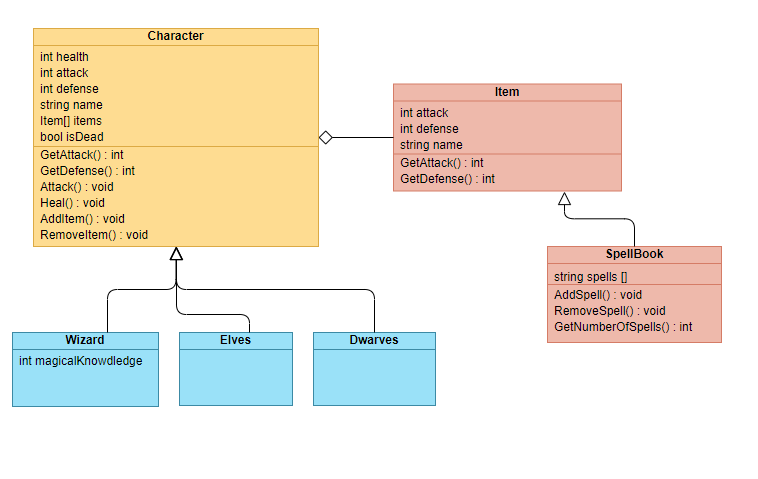
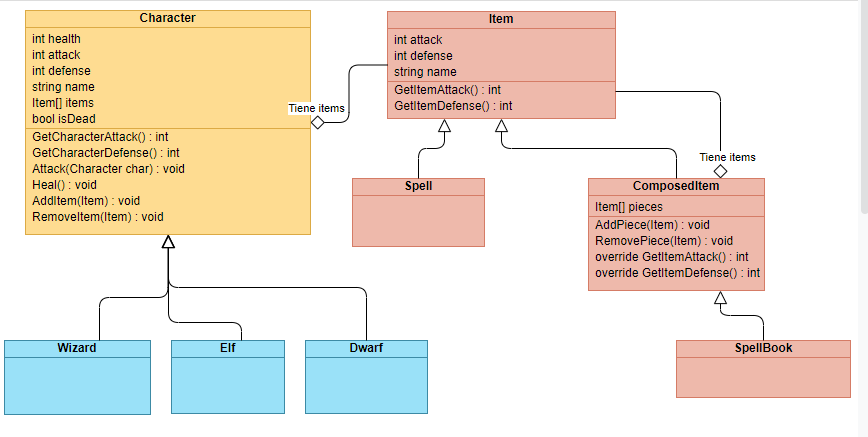
agrego el modelo y el nuevo diagrama de clases

diff --git a/src/Library/Character.cs b/src/Library/Character.cs
@@ -1,0 +1,113 @@
+using System;
+using System.Collections.Generic;
+
+namespace RolGame
+{
+    public class Character
+    {
+        private int initialHealth;
+        private int health;
+        private int attack;
+        private int defense;
+        private string name;
+        private List<Item> items;
+        private bool isDead;
+
+        public int Health 
+        {
+            get
+            {
+                return this.health;
+            }
+        }
+
+
+        public Character(int health, string name)
+        {
+            if(health > 0)
+            {
+                this.health = health;
+                this.initialHealth = health;
+            }
+            else
+            {
+                throw new Exception("Invalid health");
+            }
+
+            if(!string.IsNullOrEmpty(name))
+            {
+                this.name = name;
+            }
+            else
+            {
+                throw new Exception("Invalid name");
+            }
+
+            this.items = new List<Item>();
+            this.isDead = false;
+        }
+
+
+        public int GetCharacterAttack()
+        {
+            int result = 0;
+            foreach (Item item in this.items)
+            {
+                result = result + item.GetItemAttack();
+            }
+            return result;
+        }
+
+        public int GetCharacterDefense()
+        {
+            int result = 0;
+            foreach (Item item in this.items)
+            {
+                result = result + item.GetItemDefense();
+            }
+            return result;
+        }
+
+        public void AddItem(Item item)
+        {
+            this.items.Add(item);
+            this.UpdateCharacterStats();
+        }
+        public void RemoveItem(Item item)
+        {
+            if(this.items.Contains(item))
+            {
+                this.items.Remove(item);
+                this.UpdateCharacterStats();
+            }
+        }
+
+        public void Heal()
+        {
+            this.health = initialHealth;
+            this.isDead = false;
+        }
+
+        public void Attack(Character enemy)
+        {
+            if(enemy.isDead != true)
+            {
+                if((enemy.GetCharacterDefense() + enemy.Health) - this.GetCharacterAttack() > 0)
+                {
+                    enemy.health = (enemy.Health + enemy.GetCharacterDefense()) - this.GetCharacterAttack();
+                }
+                else
+                {
+                    enemy.health = 0;
+                    enemy.isDead = true;
+                }
+            }     
+        }
+
+         private void UpdateCharacterStats()
+        {
+            this.attack = this.GetCharacterAttack();
+            this.defense = this.GetCharacterDefense();
+        }
+    }
+}

diff --git a/src/Library/ComposedItem.cs b/src/Library/ComposedItem.cs
@@ -1,0 +1,57 @@
+using System;
+using System.Collections.Generic;
+
+namespace RolGame
+{
+    public class ComposedItem : Item
+    {
+        private List<Item> pieces;
+        private int itemAttack;
+        private int itemDefense;
+
+        public ComposedItem(string name, int attack, int defense) : base(name, attack = 0, defense = 0)
+        {
+            this.pieces = new List<Item>();
+        }
+
+        public override int GetItemAttack()
+        {
+            int result = 0;
+            foreach (Item piece in pieces)
+            {
+                result = result + piece.GetItemAttack();
+            }
+            return result;
+        }
+
+        public override int GetItemDefense()
+        {
+            int result = 0;
+            foreach (Item piece in pieces)
+            {
+                result = result + piece.GetItemDefense();
+            }
+            return result;
+        }
+
+        public void AddPiece(Item piece)
+        {
+            this.pieces.Add(piece);
+            this.UpdateComposedItemStats(piece);
+        }
+        public void RemovePiece(Item piece)
+        {
+            if(this.pieces.Contains(piece))
+            {
+                this.pieces.Remove(piece);
+                this.UpdateComposedItemStats(piece);
+            }
+        }
+
+        private void UpdateComposedItemStats(Item piece)
+        {
+            this.itemAttack = this.GetItemAttack() + piece.GetItemAttack();
+            this.itemDefense = this.GetItemDefense();
+        }
+    }
+}

diff --git a/src/Library/Item.cs b/src/Library/Item.cs
@@ -1,0 +1,53 @@
+using System;
+
+namespace RolGame
+{
+    public class Item
+    {
+        private int itemAttack;
+        private int itemDefense;
+        private string name;
+
+        public Item(string name, int attack, int defense)
+        {
+          
+            if(!string.IsNullOrEmpty(name))
+            {
+                this.name = name;
+            }
+            else
+            {
+                throw new Exception("Invalid name");
+            }
+
+            if(attack >= 0)
+            {
+                this.itemAttack = attack;
+            }
+            else
+            {
+                this.itemAttack = 0;
+            }
+
+            if(defense >= 0)
+            {
+                this.itemDefense = defense;
+            }
+            else
+            {
+                this.itemDefense = 0;
+            }    
+        }
+
+        public virtual int GetItemAttack()
+        {
+            return this.itemAttack;
+        }
+
+        public virtual int GetItemDefense()
+        {
+            return this.itemDefense;
+        }
+
+    }
+}

diff --git a/src/Program/Program.cs b/src/Program/Program.cs
@@ -1,11 +1,31 @@
 using System;
 
-namespace Program
+namespace RolGame
 {
     class Program
     {
         static void Main(string[] args)
         {
+            Elf hi = new Elf(100, "hon");
+            Wizard his = new Wizard(100, "hon");
+            SpellBook book = new SpellBook("book", 0, 0);
+            Spell spell = new Spell("poderoso", 10, 5);
+            Spell spell2 = new Spell("poderoso2", 10, 5);
+            book.AddPiece(spell);
+            book.AddPiece(spell2);
+            hi.AddItem(book);
+            his.AddItem(book);
+            Console.WriteLine(hi.GetCharacterAttack());
+            Console.WriteLine(hi.GetCharacterDefense());
+            Console.WriteLine(his.GetCharacterAttack());
+            Console.WriteLine(his.GetCharacterDefense());
+            his.Attack(hi);
+            Console.WriteLine(hi.Health);
+
+
+
+
+
         }
     }
 }

diff --git a/src/Library/SpellBook.cs b/src/Library/SpellBook.cs
@@ -1,0 +1,12 @@
+using System;
+using System.Collections.Generic;
+
+namespace RolGame
+{
+    public class SpellBook : ComposedItem
+    {
+        public SpellBook(string name, int attack, int defense) : base(name, attack, defense)
+        {
+        }
+    }
+}

diff --git a/src/Library/Wizard.cs b/src/Library/Wizard.cs
@@ -1,0 +1,14 @@
+using System;
+using System.Collections.Generic;
+
+namespace RolGame
+{
+    public class Wizard : Character
+    {
+        public Wizard(int health, string name) : base(health, name)
+        {
+        }
+
+
+    }
+}

diff --git a/src/Library/Elf.cs b/src/Library/Elf.cs
@@ -1,0 +1,14 @@
+using System;
+using System.Collections.Generic;
+
+namespace RolGame
+{
+    public class Elf : Character
+    {
+        public Elf(int health, string name) : base(health, name)
+        {
+        }
+
+  
+    }
+}

diff --git a/src/Library/Dwarf.cs b/src/Library/Dwarf.cs
@@ -1,0 +1,14 @@
+using System;
+using System.Collections.Generic;
+
+namespace RolGame
+{
+    class Dwarf : Character
+    {
+        public Dwarf(int health, string name) : base(health, name)
+        {
+        }
+
+
+    }
+}

diff --git a/src/Library/Spell.cs b/src/Library/Spell.cs
@@ -1,0 +1,10 @@
+using System;
+using System.Collections.Generic;
+
+namespace RolGame
+{
+    public class Spell : Item
+    {
+        public Spell(string name, int attack, int defense) : base(name, attack, defense){}
+    }
+}
